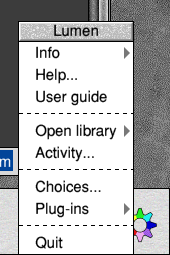
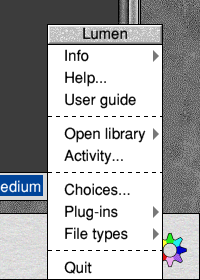
LumenHEIF 1.2: its MIME types; menu pictures retaken with File types

diff --git a/docs/lumenheif-guide/index.html b/docs/lumenheif-guide/index.html
@@ -95,7 +95,7 @@ span.count { font-weight:normal; font-size:0.85em; color:#777; }
 
 <h4>About this guide</h4>
 <p>This guide is about the plug-in. Everything else about Lumen is in the <b>Lumen User Guide</b>: choose <b>User guide</b> from the menu on Lumen's icon bar icon.</p>
-<p>The pictures are screenshots of Lumen 0.0.37 with LumenHEIF 1.1 on RISC OS 5. The photos in them are <b>not the author's</b>: the two HEIF photos, from an iPhone 12 Pro and a Samsung Galaxy A32 5G, are sample files from <a href="https://heic.digital/samples/">heic.digital/samples</a>, and the two AVIF photos are sample files from <a href="https://www.aviftools.net/samples/">aviftools.net/samples</a> (see <a href="#credits">Credits</a>).</p>
+<p>The pictures are screenshots of Lumen 0.0.37 with LumenHEIF 1.1 on RISC OS 5 (1.2 looks the same). The photos in them are <b>not the author's</b>: the two HEIF photos, from an iPhone 12 Pro and a Samsung Galaxy A32 5G, are sample files from <a href="https://heic.digital/samples/">heic.digital/samples</a>, and the two AVIF photos are sample files from <a href="https://www.aviftools.net/samples/">aviftools.net/samples</a> (see <a href="#credits">Credits</a>).</p>
 
 <h4>What we assume you know</h4>
 <p>That you have Lumen and know your way round it a little: how to import photos and open one in the Viewer, the three mouse buttons (<b>Select</b>, <b>Menu</b> and <b>Adjust</b>), and how to drag a directory from a Filer window.</p>
@@ -145,7 +145,7 @@ span.count { font-weight:normal; font-size:0.85em; color:#777; }
 </ol>
 
 <h4>By hand, from the zip file</h4>
-<p>LumenHEIF also comes as a zip file, <code>LumenHEIF-1.1.zip</code>, laid out as it goes into Lumen: <code>!Lumen.Plugins.HEIF</code>.</p>
+<p>LumenHEIF also comes as a zip file, <code>LumenHEIF-1.2.zip</code>, laid out as it goes into Lumen: <code>!Lumen.Plugins.HEIF</code>.</p>
 <ol class="steps">
 <li>Open the zip file (with SparkFS, or unzip it into a directory).</li>
 <li>Open the <code>!Lumen</code> directory inside it (hold <kbd>Shift</kbd> and double-click it), then <code>Plugins</code>. You'll see a directory called <code>HEIF</code>.</li>
@@ -156,7 +156,8 @@ span.count { font-weight:normal; font-size:0.85em; color:#777; }
 <p>You can also drag the <code>HEIF</code> directory straight onto Lumen's main window.</p>
 
 <h4>Checking it's working</h4>
-<p>Choose <b>Plug-ins</b> from the menu on Lumen's icon bar icon. LumenHEIF is listed as <b>LumenHEIF 1.1</b>, with a tick when it's on.</p>
+<p>Choose <b>Plug-ins</b> from the menu on Lumen's icon bar icon. LumenHEIF is listed as <b>LumenHEIF 1.2</b>, with a tick when it's on.</p>
+<p>LumenHEIF tells Lumen the MIME types it reads, <code>image/heic</code>, <code>image/heif</code> and <code>image/avif</code>. If your MimeMap (<code>InetDBase:MimeMap</code>) gives them RISC OS filetypes, Lumen 0.0.38 or later imports files of those types whatever they're called, lists them on its <b>File types</b> menu so a double-click can open them in Lumen, and gives them its file icon if the desktop has none. RISC OS 5.31's MimeMap has no filetypes for them yet.</p>
 <figure><img src="images/plugins-menu.png" alt="The Plug-ins menu"><figcaption>The Plug-ins menu, with LumenRaw and LumenHEIF installed and on.</figcaption></figure>
 
 <div class="box try"><b class="label">TRY IT</b>Copy a photo from an iPhone (its name ends in <code>/HEIC</code> on RISC OS) and drag it into Lumen's window. A thumbnail appears within a second or two. Double-click it to open it in the Viewer.</div>
@@ -213,7 +214,7 @@ span.count { font-weight:normal; font-size:0.85em; color:#777; }
 <p>Choose <b>Plug-ins</b> from the menu on Lumen's icon bar icon (or from the main menu over the Browser).</p>
 
 <h4>Switching it off and on</h4>
-<p>Choose <b>LumenHEIF 1.1</b> to switch it off: the tick goes. LumenHEIF stays installed, but Lumen doesn't use it, and remembers that next time it starts. Choose it again to switch it back on.</p>
+<p>Choose <b>LumenHEIF 1.2</b> to switch it off: the tick goes. LumenHEIF stays installed, but Lumen doesn't use it, and remembers that next time it starts. Choose it again to switch it back on.</p>
 <p>While it's off, HEIF photos keep their thumbnails, stars, albums and adjustments, but opening one shows a message instead of the photo:</p>
 <figure><img src="images/switched-off.png" alt="A HEIF photo with the plug-in switched off"><figcaption>With LumenHEIF switched off. The Info tab says so too.</figcaption></figure>
 
@@ -238,7 +239,7 @@ span.count { font-weight:normal; font-size:0.85em; color:#777; }
 <p>LumenHEIF reads AVIF still photos (<code>.avif</code>), whose picture is coded with <b>AV1</b>, with 8, 10 or 12 bits a channel, as Android phones, cameras, image editors and web sites save them.</p>
 <figure><img src="images/avif.png" alt="An AVIF photo in Lumen"><figcaption>An AVIF photo in the Viewer (a sample from aviftools.net, not the author's). The Info tab names it an AVIF photo, encoded with AV1; it has no EXIF.</figcaption></figure>
 
-<h4>Not read by LumenHEIF 1.1</h4>
+<h4>Not read by LumenHEIF 1.2</h4>
 <ul>
 <li><b>Image sequences</b>: animated AVIF, and HEIF bursts and animations stored as one file.</li>
 <li>The extra pictures some files carry, such as a depth map or an alpha (transparency) layer: Lumen shows the main photo only, without its transparency.</li>
@@ -274,7 +275,7 @@ span.count { font-weight:normal; font-size:0.85em; color:#777; }
 <li><b>NEON:</b> FFmpeg's HEVC NEON code and dav1d's AV1 NEON code (motion compensation, inverse transforms, loop filters) are used when VFPSupport_Features says the processor has NEON, and switched off otherwise. <code>*Set Lumen$NEON 0</code> forces the plain code. Both give identical pictures, checked against the PC by the tests.</li>
 <li><b>The FFmpeg and dav1d in it:</b> FFmpeg 5.1.10 configured with only the HEVC decoder and parser, and dav1d 1.5.4 for AV1, both from the riscos-ffmpeg port: built for ARMv7 with VFPv3 (no ARMv5 or ARMv6 code), with the RISC OS patches that make their NEON code safe on a CPU that faults unaligned accesses, and one thread.</li>
 <li><b>How Lumen runs it:</b> in a task window, one job at a time, sharing the queue with LumenRaw; job files are in <code>&lt;Wimp$ScrapDir&gt;.LumenRaw</code>.</li>
-<li><b>Source and licences:</b> LumenHEIF is &copy; Andrew Youll, 2026, under the MIT licence; its source is part of Lumen's source (<code>plugins.heif</code>). libheif is &copy; Dirk Farin and the libheif contributors, under the GNU LGPL 3; FFmpeg is &copy; the FFmpeg developers, under the GNU LGPL 2.1 or later; dav1d is &copy; VideoLAN and the dav1d authors, under its BSD licence. Their exact sources and the patches are published beside each release as <code>LumenHEIF-1.1-sources.zip</code>, so LumenHEIF can be rebuilt with changed libraries.</li>
+<li><b>Source and licences:</b> LumenHEIF is &copy; Andrew Youll, 2026, under the MIT licence; its source is part of Lumen's source (<code>plugins.heif</code>). libheif is &copy; Dirk Farin and the libheif contributors, under the GNU LGPL 3; FFmpeg is &copy; the FFmpeg developers, under the GNU LGPL 2.1 or later; dav1d is &copy; VideoLAN and the dav1d authors, under its BSD licence. Their exact sources and the patches are published beside each release as <code>LumenHEIF-1.2-sources.zip</code>, so LumenHEIF can be rebuilt with changed libraries.</li>
 </ol>
 
 <!-- ======================================================================= -->

diff --git a/docs/guide/index.html b/docs/guide/index.html
@@ -825,6 +825,7 @@ a { color:#1f5fa8; }
 
 <h4>Double-clicking photos: File types</h4>
 <p><b>File types</b> on the icon bar menu says which photos a double-click in the Filer opens in Lumen, and when:</p>
+<figure><img src="images/filetypes-menu.png" alt="The File types menu"><figcaption>File types, on the icon bar menu. A plug-in's types appear below TIFF when MimeMap gives them filetypes.</figcaption></figure>
 <ul>
 <li><b>Never</b>: Lumen opens no double-clicked photos.</li>
 <li><b>While Lumen is running</b> (to begin with): a double-clicked photo of a ticked type opens in Lumen while it's running.</li>

diff --git a/plugins/heif/lumenheif.c b/plugins/heif/lumenheif.c
@@ -44,7 +44,7 @@ int __riscosify_control = __RISCOSIFY_NO_PROCESS;   /* paths are RISC OS paths, 
 #include <sys/auxv.h>
 #endif
 
-#define VERSION "1.1"
+#define VERSION "1.2"
 #define THUMB_MAX 512                  /* a thumbnail made from the photo itself: this at most */
 
 /* --- writing results --- */

diff --git a/README.md b/README.md
@@ -44,7 +44,7 @@ were written with Anthropic's Claude as a coding assistant.
    `!Lumen.Plugins.LibRaw`. Drag that `LibRaw` directory into Lumen's
    Plug-ins > Add plug-in window, or copy it into your
    `!Lumen.Plugins`.
-4. For HEIF and AVIF photos, likewise unzip `LumenHEIF-1.1.zip` and add its
+4. For HEIF and AVIF photos, likewise unzip `LumenHEIF-1.2.zip` and add its
    `!Lumen.Plugins.HEIF` directory.
 5. Double-click `!Lumen`, and drag a folder of photos into its window.
 
@@ -143,7 +143,7 @@ LibRaw library it is built with is under the LGPL 2.1 (or CDDL), and its
 source ships with each release (`LibRaw-0.22.3-source.zip`). The
 LumenHEIF plug-in's own code is MIT; libheif is under the LGPL 3 and
 FFmpeg's libavcodec and libavutil under the LGPL 2.1 or later, dav1d
-under its BSD licence, and their sources and the patches ship as `LumenHEIF-1.1-sources.zip`. The
+under its BSD licence, and their sources and the patches ship as `LumenHEIF-1.2-sources.zip`. The
 libraries built into Lumen keep their own licences, collected in
 `app/Licences` (installed as `!Lumen.Licences`): SQLite (public domain),
 libjpeg-turbo, libpng, libtiff, zlib and UnixLib (BSD-style, with LGPL parts:
